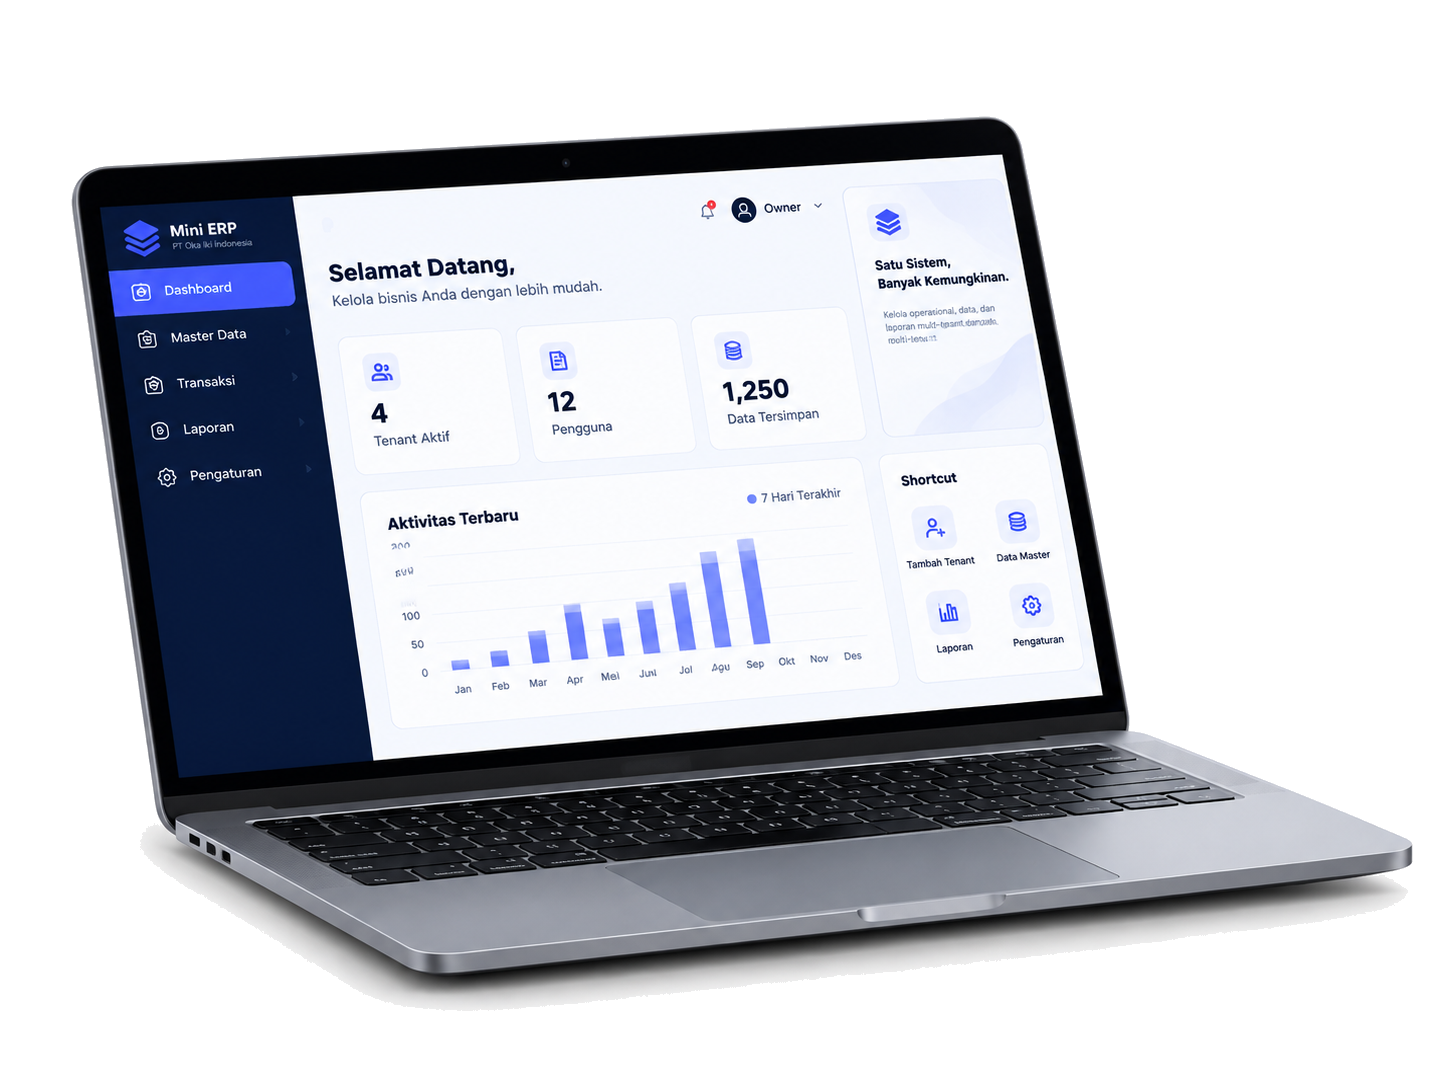
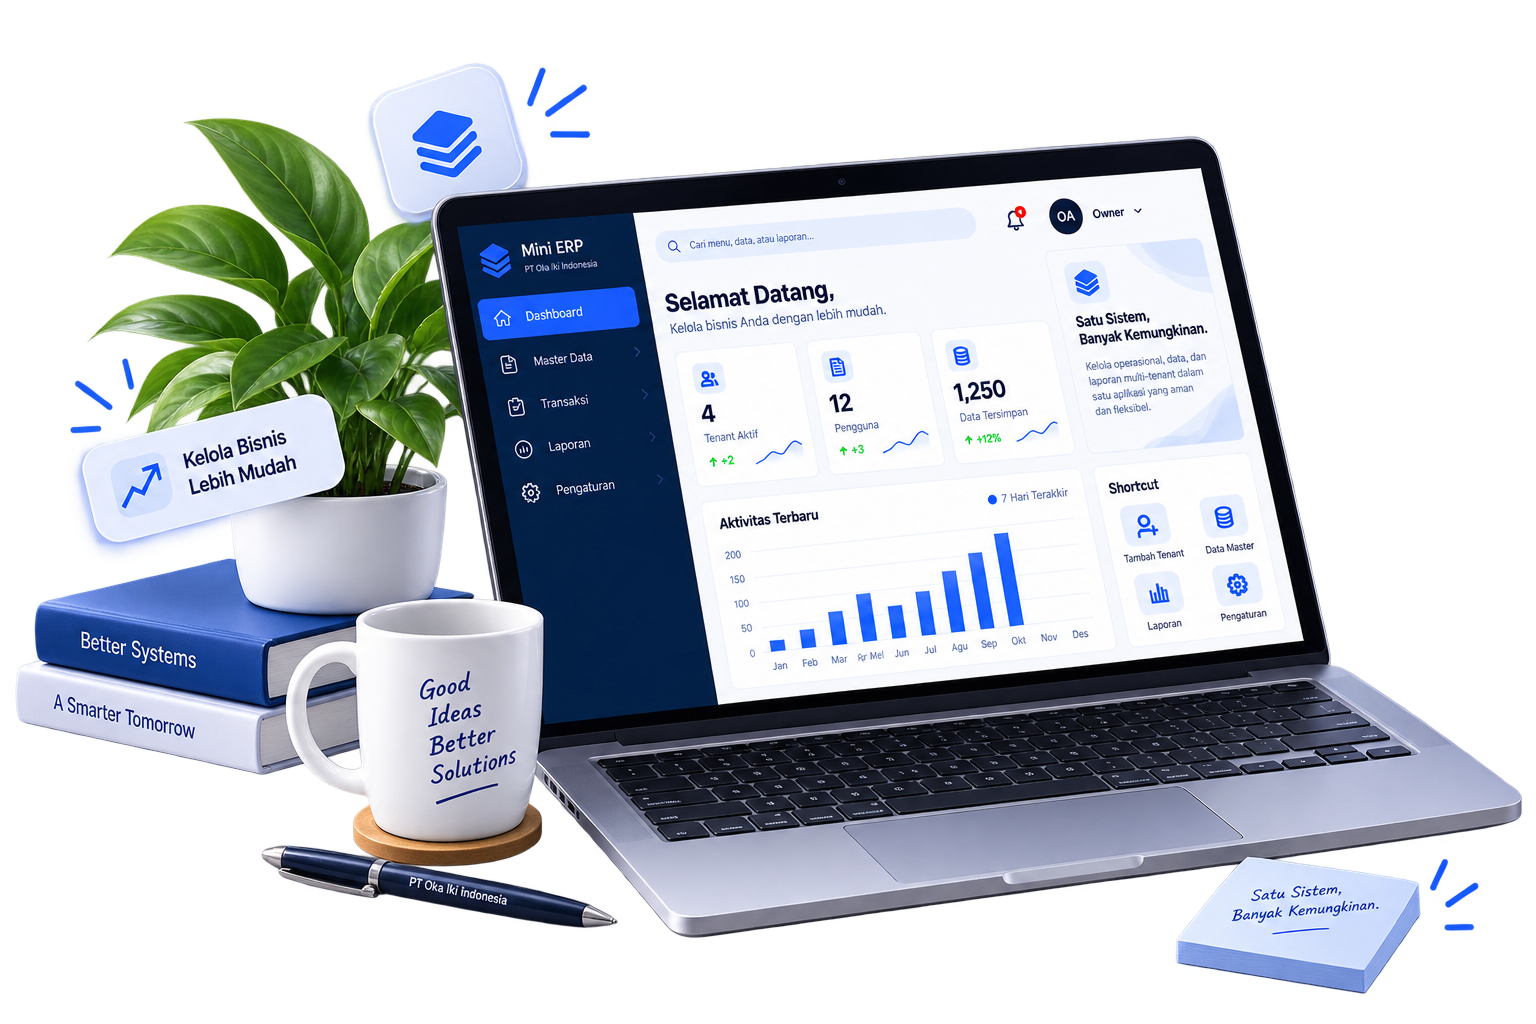
feat(login): update login illustration with login-fix graphic and clean layout

diff --git a/frontend/src/views/LoginView.vue b/frontend/src/views/LoginView.vue
@@ -116,25 +116,13 @@
 
           <!-- High-Resolution Laptop Image Mockup + Cursive Handwriting Note -->
           <div class="relative pt-1 max-w-xl">
-            <!-- Rendered Laptop Image with mix-blend-multiply to blend background seamlessly -->
-            <div class="relative w-full max-w-[460px] lg:max-w-[490px]">
+            <!-- Rendered Laptop Image with high resolution 3D illustration -->
+            <div class="relative w-full max-w-[480px] lg:max-w-[510px]">
               <img
                 :src="laptopMockup"
                 alt="Mini ERP Dashboard on Laptop"
                 class="w-full h-auto object-contain drop-shadow-[0_15px_30px_rgba(15,23,42,0.14)] select-none transition-transform duration-500 hover:scale-[1.01]"
               />
-
-              <!-- Hand-written cursive callout positioned gracefully near the top-right of laptop -->
-              <div class="hidden sm:flex flex-col items-center absolute -top-2 -right-16 lg:-right-20 z-20 select-none pointer-events-none">
-                <span class="font-handwriting text-2xl lg:text-3xl text-slate-800 font-bold -rotate-6 leading-tight text-center">
-                  Dari Data<br />Menuju Pertumbuhan
-                </span>
-                <!-- Curved Doodle Arrow pointing towards laptop screen -->
-                <svg class="w-10 h-8 text-slate-700 mt-1 -rotate-6" viewBox="0 0 50 40" fill="none" stroke="currentColor" stroke-width="2.2" stroke-linecap="round" stroke-linejoin="round">
-                  <path d="M40 5 C 28 12, 18 18, 10 28" />
-                  <polyline points="18 24 9 28 14 35" />
-                </svg>
-              </div>
             </div>
           </div>
         </div>
